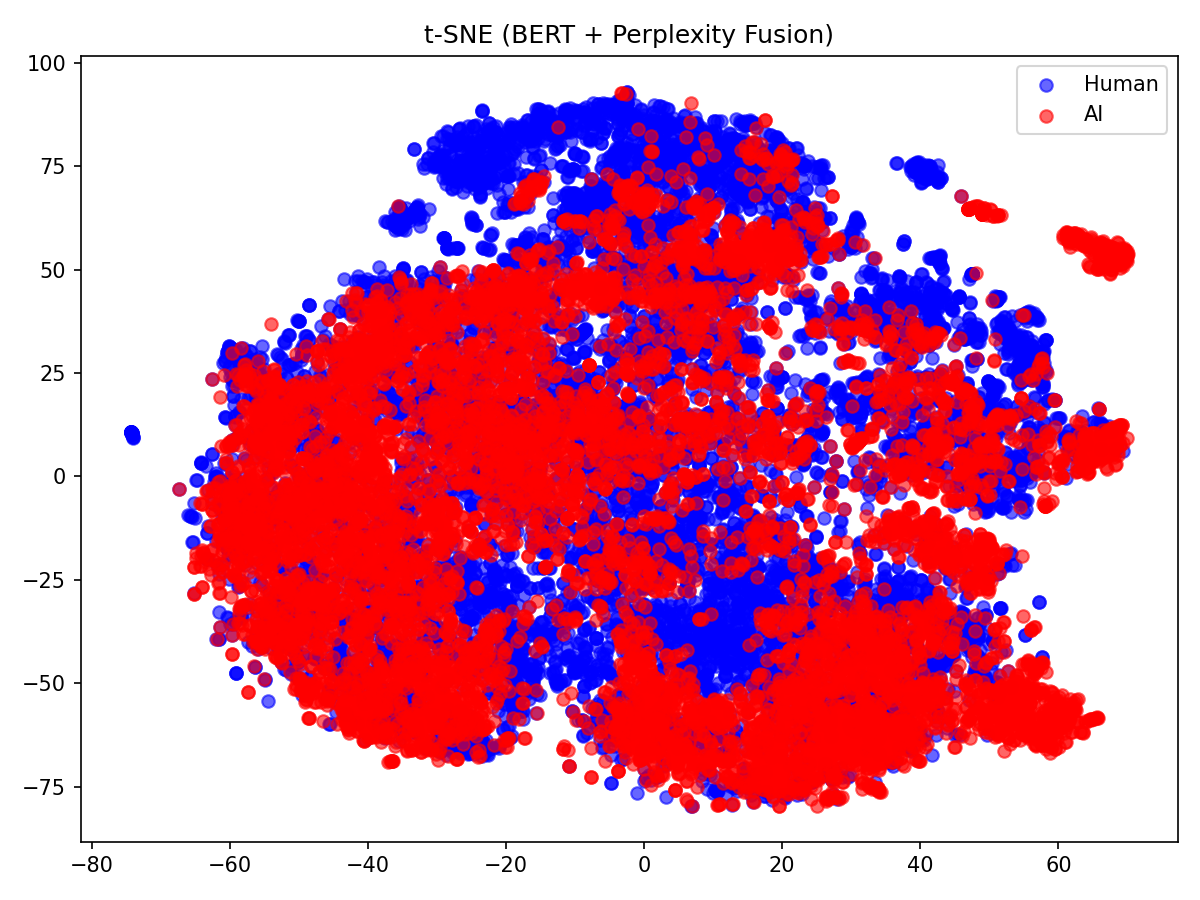
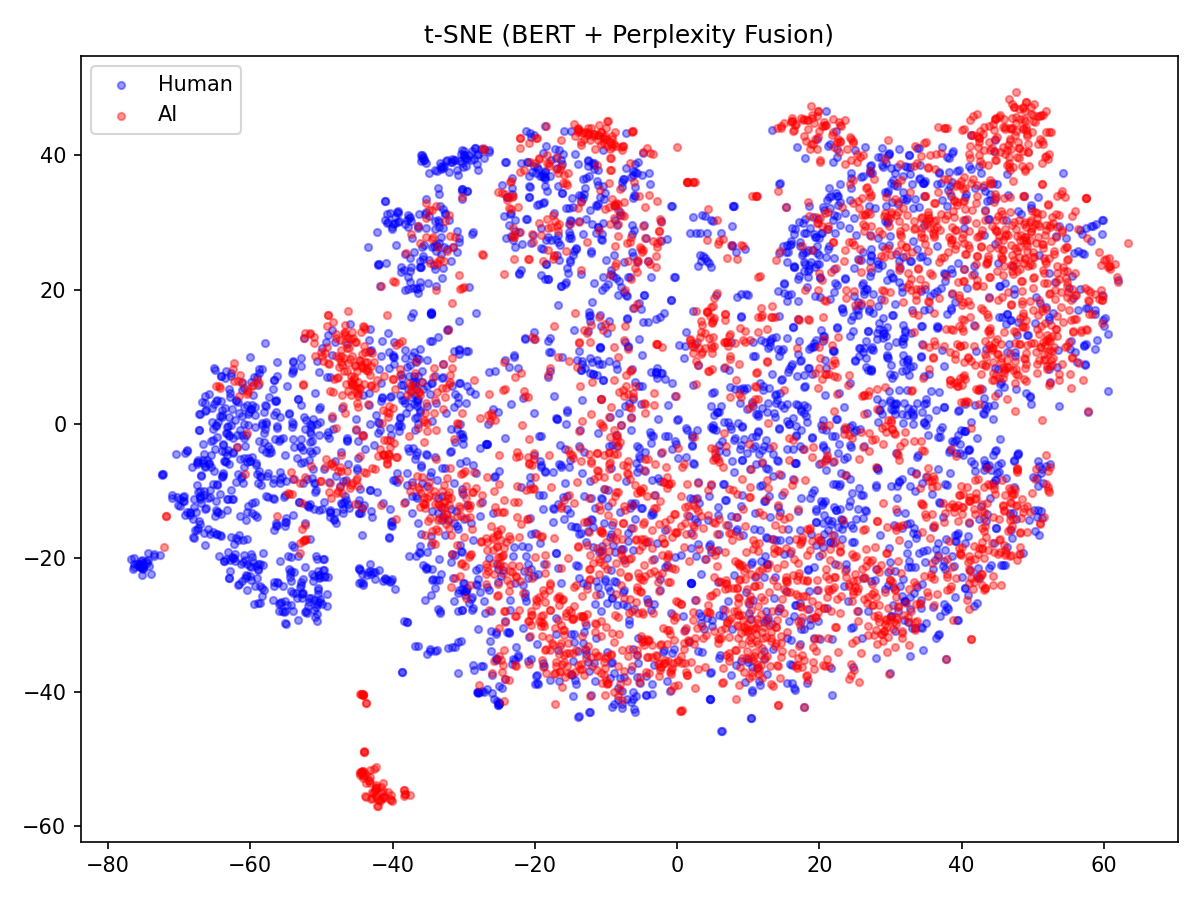
AI文本检测项目完整代码

diff --git a/src/evaluate.py b/src/evaluate.py
@@ -1,4 +1,3 @@
-# ====================== 这里修改 1/2 ======================
 from src.tfidf_model import run_tfidf_lr
 from src.perplexity_model import run_perplexity_lr
 from src.bert_model import run_bert_finetune
@@ -12,7 +11,7 @@ import seaborn as sns
 from sklearn.metrics import confusion_matrix, roc_curve, auc
 from sklearn.manifold import TSNE
 from sklearn.feature_extraction.text import TfidfVectorizer
-from sklearn.svm import LinearSVC
+from sklearn.linear_model import LogisticRegression
 from transformers import BertTokenizer, BertModel
 import torch
 import os
@@ -70,7 +69,7 @@ def analyze_text_length():
     print(f"{'Human':<10} {avg_human:.1f} 字符")
     print(f'{"AI":<10} {avg_ai:.1f} 字符')
     print("="*60)
-    
+
     plt.figure(figsize=(8, 5))
     bins = np.arange(0, 1001, 20)
     
@@ -108,20 +107,24 @@ def visualize_all_tsne():
 
     train, test = load_hc3_data()
     df = pd.concat([train, test], ignore_index=True)
-    texts = [clean_text(str(t)) for t in df["text"]]
-    labels = df["label"].values
     
-    # ====================== 修复：强制CPU + 正确拼写 ======================
-    device = "cpu"  # 直接用CPU，永不爆显存
+    df_human = df[df['label'] == 0].sample(n=3000, random_state=42)  
+    df_ai = df[df['label'] == 1].sample(n=3000, random_state=42)     
+    df_sampled = pd.concat([df_human, df_ai], ignore_index=True)    
+    
+    texts = [clean_text(str(t)) for t in df_sampled["text"]]
+    labels = df_sampled["label"].values
+    
+    device = "cpu"  
 
     print("📊 生成 TF-IDF t-SNE...")
-    tfidf = TfidfVectorizer(max_features=10000)
+    tfidf = TfidfVectorizer(max_features=10000, max_df=0.9, ngram_range=(1,2))
     emb_tfidf = tfidf.fit_transform(texts).toarray()
     tsne = TSNE(n_components=2, random_state=42, init="random", perplexity=30)
     emb2d = tsne.fit_transform(emb_tfidf)
     plt.figure(figsize=(8,6))
-    plt.scatter(emb2d[labels==0,0], emb2d[labels==0,1], c="blue", label="Human", alpha=0.6)
-    plt.scatter(emb2d[labels==1,0], emb2d[labels==1,1], c="red", label="AI", alpha=0.6)
+    plt.scatter(emb2d[labels==0,0], emb2d[labels==0,1], c="blue", label="Human", alpha=0.4, s=12)
+    plt.scatter(emb2d[labels==1,0], emb2d[labels==1,1], c="red", label="AI", alpha=0.4, s=12)
     plt.title("t-SNE (TF-IDF Features)")
     plt.legend()
     plt.tight_layout()
@@ -142,8 +145,8 @@ def visualize_all_tsne():
     emb_bert = np.array(emb_bert)
     emb2d = TSNE(n_components=2, random_state=42, init="random", perplexity=30).fit_transform(emb_bert)
     plt.figure(figsize=(8,6))
-    plt.scatter(emb2d[labels==0,0], emb2d[labels==0,1], c="blue", label="Human", alpha=0.6)
-    plt.scatter(emb2d[labels==1,0], emb2d[labels==1,1], c="red", label="AI", alpha=0.6)
+    plt.scatter(emb2d[labels==0,0], emb2d[labels==0,1], c="blue", label="Human", alpha=0.4, s=12)
+    plt.scatter(emb2d[labels==1,0], emb2d[labels==1,1], c="red", label="AI", alpha=0.4, s=12)
     plt.title("t-SNE (BERT Embeddings)")
     plt.legend()
     plt.tight_layout()
@@ -154,8 +157,8 @@ def visualize_all_tsne():
     emb_fusion = get_fusion_features(texts)
     emb2d = TSNE(n_components=2, random_state=42, init="random", perplexity=30).fit_transform(emb_fusion)
     plt.figure(figsize=(8,6))
-    plt.scatter(emb2d[labels==0,0], emb2d[labels==0,1], c="blue", label="Human", alpha=0.6)
-    plt.scatter(emb2d[labels==1,0], emb2d[labels==1,1], c="red", label="AI", alpha=0.6)
+    plt.scatter(emb2d[labels==0,0], emb2d[labels==0,1], c="blue", label="Human", alpha=0.4, s=12)
+    plt.scatter(emb2d[labels==1,0], emb2d[labels==1,1], c="red", label="AI", alpha=0.4, s=12)
     plt.title("t-SNE (BERT + Perplexity Fusion)")
     plt.legend()
     plt.tight_layout()
@@ -174,13 +177,14 @@ def get_top_tfidf_features():
     texts = [clean_text(str(t)) for t in df["text"]]
     labels = df["label"].values
 
-    tfidf = TfidfVectorizer(max_features=10000, ngram_range=(1,2))
+    tfidf = TfidfVectorizer(max_features=10000, max_df=0.9,ngram_range=(1,2))
     X = tfidf.fit_transform(texts)
-    svm = LinearSVC()
-    svm.fit(X, labels)
+
+    model = LogisticRegression(max_iter=1000)
+    model.fit(X, labels)
 
     feats = tfidf.get_feature_names_out()
-    coef = svm.coef_[0]
+    coef = model.coef_[0]
 
     top_ai = [feats[i] for i in coef.argsort()[-20:]][::-1]
     top_human = [feats[i] for i in coef.argsort()[:20]]
@@ -230,7 +234,8 @@ def compare_models():
     print("=" * 70)
     print("🚀 AI 生成文本检测：五模型对比实验")
     print("=" * 70)
-    
+
+    #  数据分析与可视化
     analyze_text_length()
     visualize_all_tsne()
     get_top_tfidf_features()
@@ -238,14 +243,14 @@ def compare_models():
     train, test = load_hc3_data()
     test_texts = [clean_text(str(t)) for t in test["text"]]
     y_test = test["label"].values
-
+    
+    # 运行各模型并保存错误样本
     acc4, y_true4, y_pred4, y_score4 = run_length_lr()
     save_error_examples("Length", y_true4, y_pred4, test_texts)
 
     acc2, y_true2, y_pred2, y_score2 = run_perplexity_lr()
     save_error_examples("Perplexity", y_true2, y_pred2, test_texts)
 
-    # ====================== 这里修改 2/2 ======================
     acc1, y_true1, y_pred1, y_score1 = run_tfidf_lr()
     save_error_examples("TF-IDF-LR", y_true1, y_pred1, test_texts)
 
@@ -255,12 +260,14 @@ def compare_models():
     acc5, y_true5, y_pred5, y_score5 = run_bert_ppl_fusion()
     save_error_examples("BERT-PPL-Fusion", y_true5, y_pred5, test_texts)
 
+    # 绘制性能对比图表
     auc4 = plot_metrics(y_true4, y_pred4, y_score4, "Length-only-LR")
     auc2 = plot_metrics(y_true2, y_pred2, y_score2, "Perplexity-LR")
     auc1 = plot_metrics(y_true1, y_pred1, y_score1, "TF-IDF-LR")
     auc3 = plot_metrics(y_true3, y_pred3, y_score3, "BERT")
     auc5 = plot_metrics(y_true5, y_pred5, y_score5, "BERT-PPL-Fusion")
 
+    # 最终结果对比表
     print("\n" + "=" * 70)
     print("📊 最终模型性能对比表")
     print("=" * 70)
@@ -283,3 +290,6 @@ def compare_models():
         f.write(f"BERT+PPL Fusion:  Acc={acc5:.4f}, AUC={auc5:.4f}\n")
 
     print("\n✅ 全部任务完成！")
+
+if __name__ == "__main__":
+    compare_models()

diff --git a/src/fusion_bert_ppl.py b/src/fusion_bert_ppl.py
@@ -26,6 +26,7 @@ def get_bert_sentence_embeddings(texts):
             out = model(**inputs)
             cls_emb = out.last_hidden_state[:, 0, :].squeeze().cpu().numpy()
             embeddings.append(cls_emb)
+    
     return np.array(embeddings)
 
 def get_fusion_features(texts):
@@ -41,33 +42,25 @@ def get_fusion_features(texts):
     ppl_scaled = scaler.fit_transform(ppl_arr)
     
     fusion = np.concatenate([bert_emb, ppl_scaled], axis=1)
+    
     return fusion
 
 def run_bert_ppl_fusion():
     print("\n===== 正在运行 BERT + Perplexity 融合模型 =====")
+    
     train, test = load_hc3_data()
-
+    
     train_text = train["text"].apply(clean_text).tolist()
     test_text = test["text"].apply(clean_text).tolist()
+    
     y_train = train["label"].values
     y_test = test["label"].values
 
-    print("正在提取训练集 BERT 特征...")
-    X_train_bert = get_bert_sentence_embeddings(train_text)
-    print("正在提取测试集 BERT 特征...")
-    X_test_bert = get_bert_sentence_embeddings(test_text)
-
-    print("正在计算训练集困惑度...")
-    train_ppl = np.array([calculate_perplexity(t) for t in train_text]).reshape(-1, 1)
-    print("正在计算测试集困惑度...")
-    test_ppl = np.array([calculate_perplexity(t) for t in test_text]).reshape(-1, 1)
-
-    scaler = StandardScaler()
-    train_ppl_scaled = scaler.fit_transform(train_ppl)
-    test_ppl_scaled = scaler.transform(test_ppl)
-
-    X_train = np.concatenate([X_train_bert, train_ppl_scaled], axis=1)
-    X_test = np.concatenate([X_test_bert, test_ppl_scaled], axis=1)
+    print("正在生成训练集融合特征...")
+    X_train = get_fusion_features(train_text)
+    
+    print("正在生成测试集融合特征...")
+    X_test = get_fusion_features(test_text)
 
     clf = LogisticRegression(max_iter=1000, random_state=42)
     clf.fit(X_train, y_train)

diff --git a/src/perplexity_model.py b/src/perplexity_model.py
@@ -5,7 +5,6 @@ from sklearn.metrics import accuracy_score
 from transformers import GPT2Tokenizer, GPT2LMHeadModel
 from src.preprocess import load_hc3_data, clean_text
 
-# 全局加载模型（避免重复加载）
 device = "cuda" if torch.cuda.is_available() else "cpu"
 tokenizer = GPT2Tokenizer.from_pretrained("gpt2")
 model = GPT2LMHeadModel.from_pretrained("gpt2").to(device)
@@ -51,7 +50,7 @@ def run_perplexity_lr():
     lr.fit(X_train, y_train)
     y_pred = lr.predict(X_test)
     
-    y_score = lr.predict_proba(X_test)[:, 1]  # 输出AI类别概率
+    y_score = lr.predict_proba(X_test)[:, 1]  
     
     acc = accuracy_score(y_test, y_pred)
     print(f"Perplexity + LR 准确率: {acc:.4f}")

diff --git a/src/tfidf_model.py b/src/tfidf_model.py
@@ -13,7 +13,7 @@ def run_tfidf_lr():
     y_train, y_test = train['label'], test['label']
     
     # TF-IDF 特征提取
-    tfidf = TfidfVectorizer(max_features=10000, stop_words='english', max_df=0.9)
+    tfidf = TfidfVectorizer(max_features=10000, stop_words=None, max_df=0.9,ngram_range=(1,2))
     X_train = tfidf.fit_transform(train_text)
     X_test = tfidf.transform(test_text)
     

diff --git a/README.md b/README.md
@@ -15,14 +15,14 @@ The goal is to analyze how different feature representations contribute to human
 ---
 
 ## 项目简介
-随着大模型生成内容的普及，AI 生成文本与人工文本的边界越来越模糊。本项目以文本为研究对象，构建了一套完整的检测与对比实验框架，从传统统计特征、词袋模型到预训练语言模型，系统对比了不同方法在人机文本分类任务上的效果，并探索了语义特征与统计特征的融合方案。
+随着大模型生成内容的普及，AI生成文本与人工文本的边界越来越模糊。本项目以文本为研究对象，构建了一套完整的检测与对比实验框架，从传统统计特征、词袋模型到预训练语言模型，系统对比了不同方法在人机文本分类任务上的效果，并探索了语义特征与统计特征的融合方案。
 
 本项目的核心亮点：
 - 多模型对比：从启发式统计特征到预训练语言模型构建完整基准体系
-- 特征工程：结合文本长度、困惑度、TF-IDF 与 BERT 语义特征
+- 特征工程：结合文本长度、困惑度、TF-IDF与BERT语义特征
 - 特征融合：提出并验证了语义特征与统计特征的融合思路
-- 完整评估：包含准确率、AUC、混淆矩阵、t-SNE 可视化与错误案例分析
-- AI 辅助优化：借助 AI 工具辅助完善代码、排查 bug、优化代码可读性与规范性，提升开发效率
+- 完整评估：包含准确率、AUC、混淆矩阵、t-SNE可视化与错误案例分析
+- AI辅助优化：借助AI工具辅助完善代码、排查bug、优化代码可读性与规范性，提升开发效率
 
 ---
 
@@ -71,7 +71,7 @@ python main.py
 | 模型类别         | 具体实现方式                               |
 |------------------|--------------------------------------------|
 | 基线统计特征     | 文本长度 + 逻辑回归                        |
-| 语言模型特征     | 困惑度（GPT-2）+ 逻辑回归                  |
+| 语言模型特征     | 困惑度（GPT-2）+逻辑回归                  |
 | 传统机器学习     | TF-IDF + 逻辑回归                          |
 | 预训练语言模型   | BERT 微调                                  |
 | 特征融合模型     | BERT 语义特征 + 困惑度特征融合 + 逻辑回归  |
@@ -89,8 +89,8 @@ AI-Text-Detection/
 │   ├── preprocess.py         # 数据加载与基础清洗工具
 │   ├── length_model.py       # 文本长度基线模型
 │   ├── perplexity_model.py   # 困惑度特征计算与模型
-│   ├── tfidf_model.py        # TF-IDF 模型
-│   ├── bert_model.py         # BERT 微调模型
+│   ├── tfidf_model.py        # TF-IDF模型
+│   ├── bert_model.py         # BERT微调模型
 │   ├── fusion_model.py       # 特征融合模型
 │   ├── evaluate.py           # 模型评估与可视化模块
 ├── results/                  # 自动生成的实验结果
@@ -106,13 +106,13 @@ AI-Text-Detection/
 ## 主要结果与可视化
 运行后将自动生成以下关键结果：
 1. **模型性能对比**
-   - 各模型的准确率与 AUC 指标
-   - 混淆矩阵与 ROC 曲线
+   - 各模型的准确率与AUC指标
+   - 混淆矩阵与ROC曲线
 2. **特征可视化**
-   - TF-IDF、BERT 及融合特征的 t-SNE 降维对比图
+   - TF-IDF、BERT 及融合特征的t-SNE降维对比图
    - 文本长度分布统计
 3. **可解释性分析**
-   - 高区分度的 TF-IDF 关键词列表
+   - 高区分度的TF-IDF关键词列表
    - 错误分类案例分析
 
 ---
@@ -124,14 +124,15 @@ AI-Text-Detection/
 |--------------------|--------------|------------------|
 | Length-only LR     | 0.5405       | 0.6189           |
 | Perplexity + LR    | 0.7240       | 0.7834           |
-| TF-IDF + LR        | 0.7595       | 0.8416           |
-| BERT Fine-tune     | 0.9233       | 0.9814           |
-| BERT+PPL Fusion    | 0.8510       | 0.9296           |
+| TF-IDF + LR        | 0.7628       | 0.8463           |
+| BERT Fine-tune     | 0.9263       | 0.9798           |
+| BERT+PPL Fusion    | 0.8518       | 0.9299           |
 
 基于上述实验结果，得出以下结论：
-1. 预训练语言模型（BERT Fine-tune）在该任务中表现最佳，准确率达到 0.9233，AUC 达到 0.9814，显著优于传统机器学习方法。
+1. 预训练语言模型（BERT Fine-tune）在该任务中表现最佳，准确率达到0.9263，AUC达到0.9798，显著优于传统机器学习方法。
 2. 传统词法特征（TF-IDF）相比简单统计特征（Length、Perplexity）具有更强的判别能力，验证了词汇分布信息在人机文本区分中的作用。
-3. 在特征融合实验中，BERT 语义特征与困惑度特征的 Early Fusion 未能进一步提升性能，说明在强语义表示存在的情况下，简单拼接统计特征可能带来冗余信息。
+3. 在特征融合实验中，BERT语义特征与困惑度特征的Early Fusion未能进一步提升性能，主要原因有三点：一是融合结构中BERT仅用于固定特征提取，未针对任务微调；二是分类器采用逻辑回归，表达能力弱于BERT微调的非线性分类头。三是BERT的强语义表示已包含困惑度相关信息，简单拼接会造成特征冗余。
+
 
 ---
 
@@ -151,10 +152,10 @@ AI-Text-Detection/
 *注：人工文本与AI生成文本的长度分布存在一定差异，但差异不足以单独作为有效判别特征。*
 
 ## 数据集说明
-本项目以 HC3 数据集为研究基础，该数据集包含人工与 AI 生成的文本样本，适用于人机文本分类任务。为规避版权风险，本项目不存放完整数据集，仅提供下载与预处理引导，具体如下：
-1.  原始数据下载：从 HC3 官方开源仓库获取（链接：https://github.com/Hello-SimpleAI/HC3），下载后将原始文件命名为 `all.jsonl` 放入 `data/` 目录；
+本项目以 HC3 数据集为研究基础，该数据集包含人工与AI生成的文本样本，适用于人机文本分类任务。为规避版权风险，本项目不存放完整数据集，仅提供下载与预处理引导，具体如下：
+1.  原始数据下载：从 HC3官方开源仓库获取（链接：https://github.com/Hello-SimpleAI/HC3），下载后将原始文件命名为 `all.jsonl` 放入 `data/` 目录；
 2.  数据预处理：运行 `data/process_hc3.py` 脚本，自动完成文本清洗、无效样本剔除与标签标准化，生成适配项目的 `HC3.csv`（预处理逻辑详见该脚本注释）；
-3.  版权说明：原始 HC3 数据集版权归原作者所有，本项目仅用于非商业科研用途，使用需遵循数据集官方许可证要求。
+3.  版权说明：原始HC3数据集版权归原作者所有，本项目仅用于非商业科研用途，使用需遵循数据集官方许可证要求。
 
 ---
 
@@ -168,11 +169,14 @@ pandas>=1.5.0
 matplotlib>=3.7.0
 seaborn>=0.12.0
 nltk>=3.8.0
+jieba>=0.42.1
 ```
 
 ---
 
 ## 作者与说明
+作者：陈勇
+
 本项目为个人学习与科研实践项目，核心目标是构建一套完整的AI文本检测基准体系，探索不同特征表示在人机文本分类任务中的效果，为相关领域的研究提供参考。
 
 本项目仅用于学习和科研用途，严禁用于商业盈利。若有疑问、bug反馈或改进建议，欢迎提交Issue交流。
